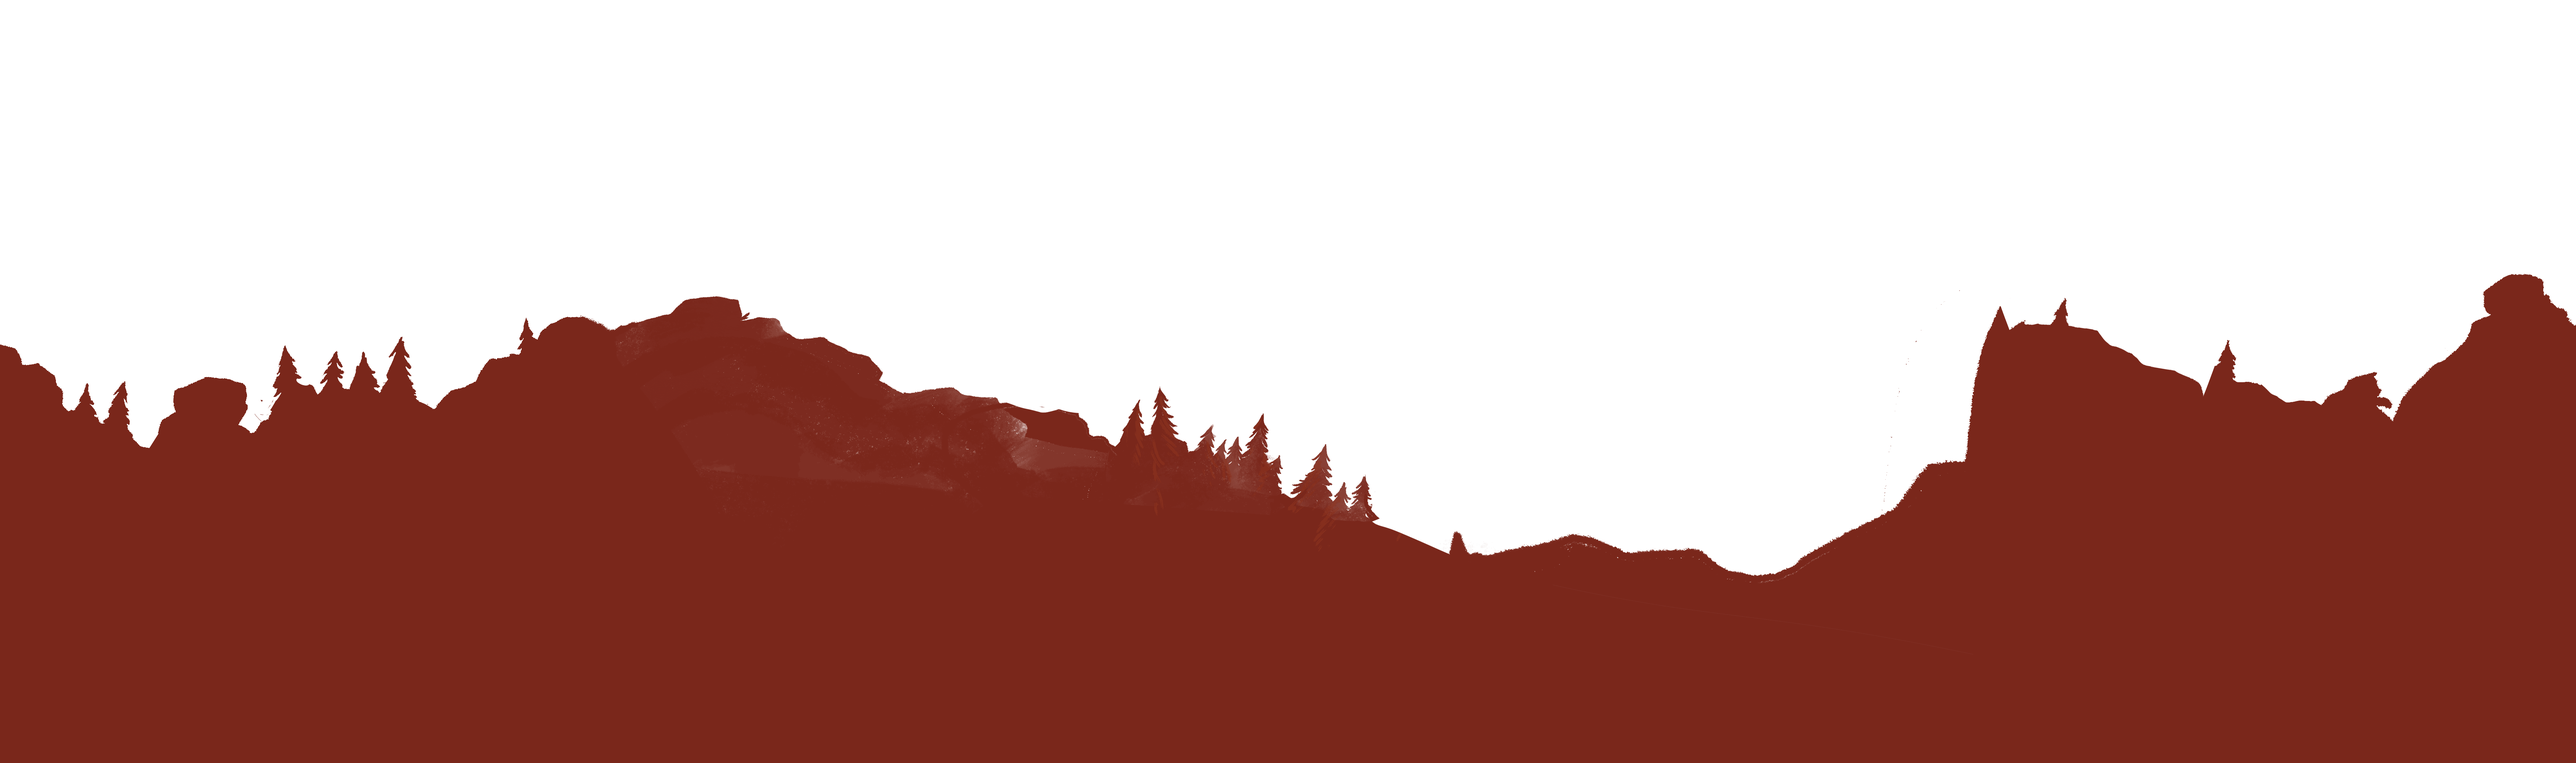
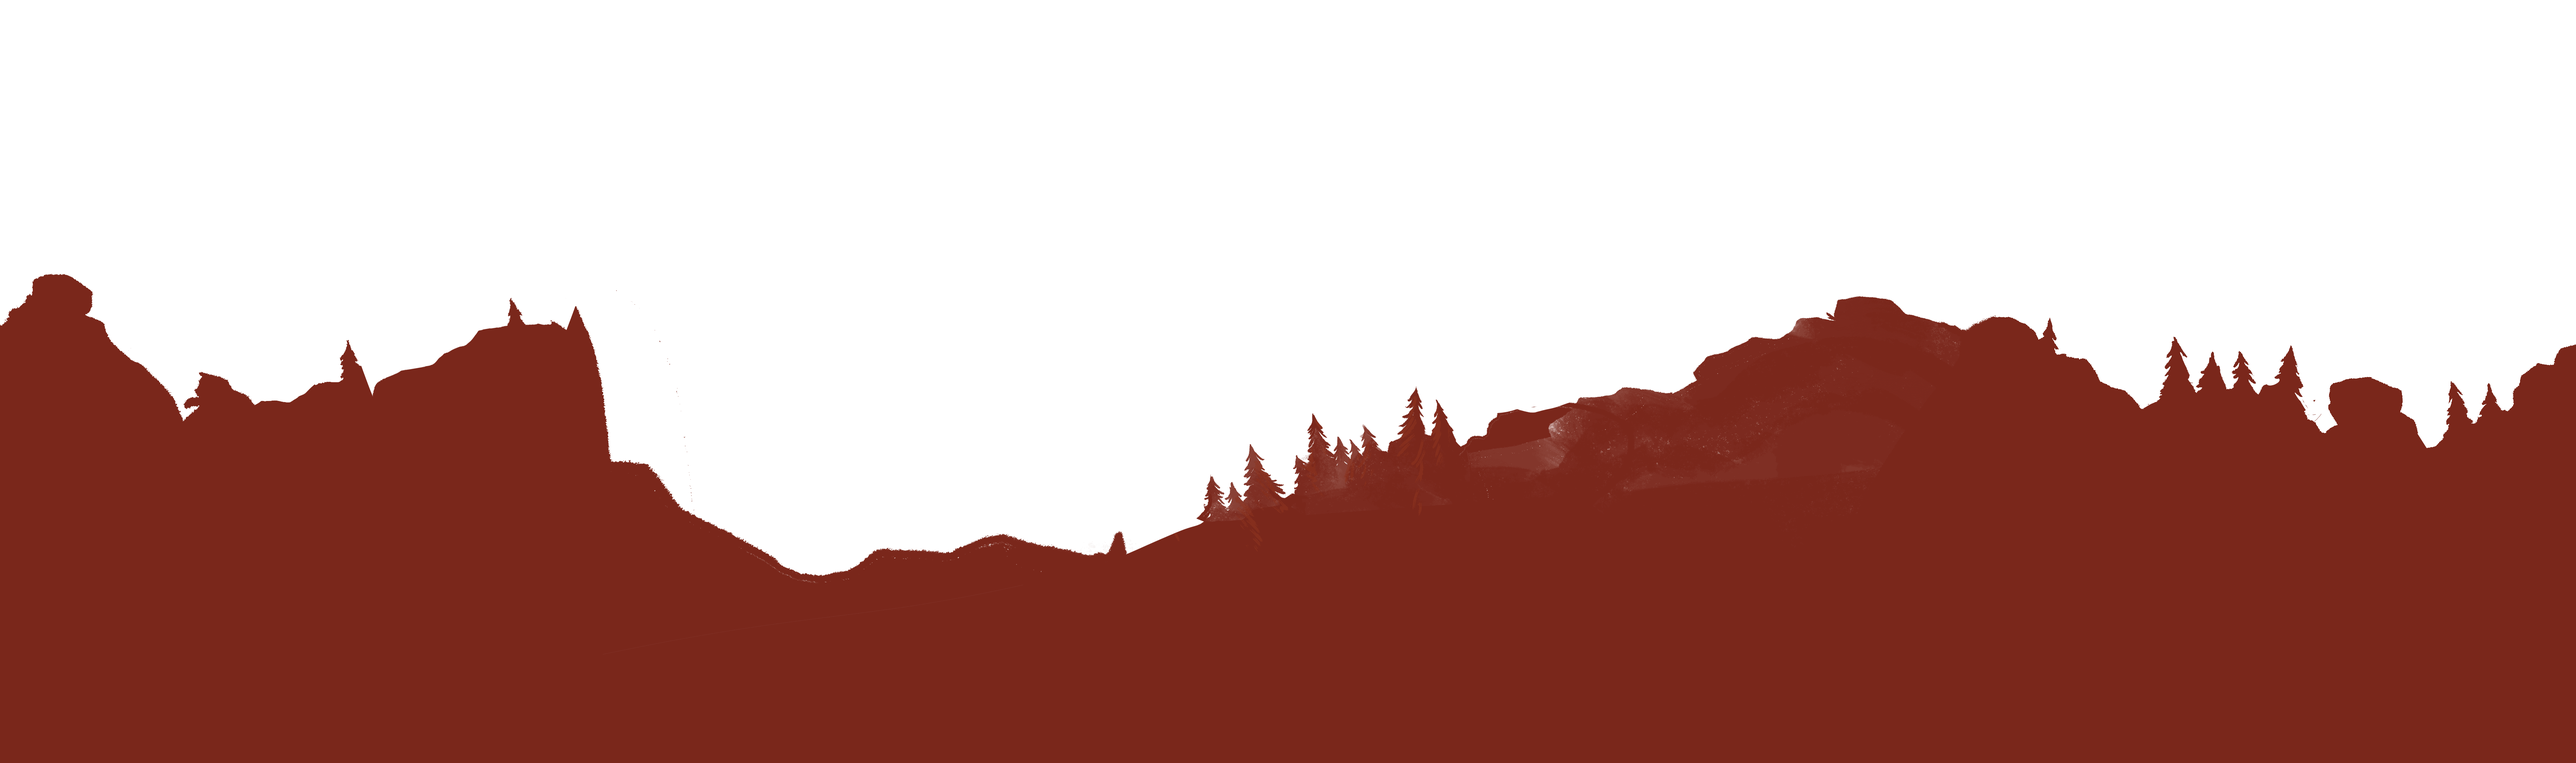
kind of fixed parallax?

Changed region(s): [[0.0, 0.3391, 1.0, 0.7707]]

diff --git a/src/components/ParallaxComponent.jsx b/src/components/ParallaxComponent.jsx
@@ -1,15 +1,72 @@
-import { ParallaxBanner } from 'react-scroll-parallax'
+import { ParallaxBanner, ParallaxBannerLayer, BannerLayer } from 'react-scroll-parallax'
+
+// const Component = () => {
+// 	return (
+// 		<ParallaxBanner
+// 			layers={[
+// 				// { image: 'p0.png', speed: -40 },
+// 				{ image: 'p1.png', speed: -20 },
+// 				{ image: 'p2.png', speed: -10 },
+// 				{ image: 'logo.svg', speed: -10 },
+// 				{ image: 'p3.png', speed: -5 },
+// 				// { image: 'p4.png', speed: -5 },
+// 				// { image: 'p5.png', speed: -1 },
+// 			]}
+// 			className='aspect-[3.3/1]'
+// 		></ParallaxBanner>
+// 	)
+// }
+
+// import parallax3 from 'public/parallax3.png'
+// import logo_s from 'public/logo_s.svg'
+// import parallax4 from 'public/parallax4.png'
+// import parallax5 from 'public/parallax5.png'
 
 const Component = () => {
+	// const float = {
+	// 	image: 'rec.png',
+	// 	translateY: [0, 0.1],
+	// 	opacity: [1, 1],
+	// 	scale: [1, 1, 'easeOutCubic'],
+	// 	shouldAlwaysCompleteAnimation: true,
+	// }
+
+	const background = {
+		image: 'parallax3.png',
+		translateY: [0, 30],
+		opacity: [1, 60],
+		scale: [1, 1, 'easeOutCubic'],
+		shouldAlwaysCompleteAnimation: true,
+	}
+
+	const foreground = {
+		image: 'parallax4.png',
+		translateY: [0, 20],
+		scale: [1, 1, 'easeOutCubic'],
+		shouldAlwaysCompleteAnimation: true,
+	}
+	const logo = {
+		translateY: [0, 10],
+		scale: [0.5, 0.5, 'easeOutCubic'],
+		shouldAlwaysCompleteAnimation: true,
+		children: (
+			<div className='absolute inset-0 flex items-center justify-center'>
+				<img src='logo.svg' alt='logo' />
+			</div>
+		),
+	}
+
+	const foreforeground = {
+		image: 'parallax5.png',
+		translateY: [0, 1],
+		scale: [1, 1, 'easeOutCubic'],
+		shouldAlwaysCompleteAnimation: true,
+	}
+
 	return (
-		<ParallaxBanner
-			layers={[
-				{ image: 'p1.png', speed: -30 },
-				{ image: 'p2.png', speed: -20 },
-				{ image: 'p3.png', speed: -5 },
-			]}
-			className='aspect-[1.5/1]'
-		/>
+		<div>
+			<ParallaxBanner layers={[background, foreground, logo, foreforeground]} className='h-96' />
+		</div>
 	)
 }
 
